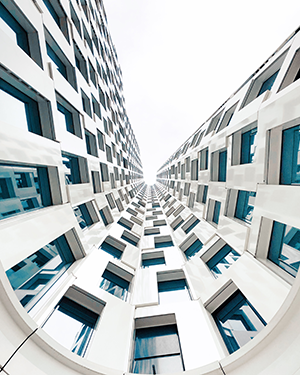
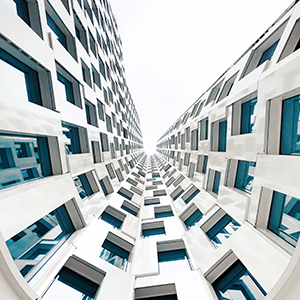
resize image files and add imgs to html

diff --git a/index.html b/index.html
@@ -1,25 +1,32 @@
-<!DOCTYPE html>
+<!doctype html>
 <html lang="en">
+  <head>
+    <!-- Required meta tags -->
+    <meta charset="utf-8">
+    <meta name="viewport" content="width=device-width, initial-scale=1, shrink-to-fit=no">
 
-	<head>
+    <!-- Bootstrap CSS -->
+    <link rel="stylesheet" href="https://stackpath.bootstrapcdn.com/bootstrap/4.4.1/css/bootstrap.min.css" integrity="sha384-Vkoo8x4CGsO3+Hhxv8T/Q5PaXtkKtu6ug5TOeNV6gBiFeWPGFN9MuhOf23Q9Ifjh" crossorigin="anonymous">
 
-		<meta charset="utf-8">
+    <title>Travel Memories</title>
+  </head>
+  <body>
+    <h1>Travel Memories '19</h1>
 
-		<title></title>
+    <img src="hw2-image1.png" alt="image of building from ground looking up">
+    <img src="hw2-image2.png" alt="image of 6 cupcakes with sprinkles">
+    <img src="hw2-image3.png" alt="street art of blue figure">
+    <img src="hw2-image4.png" alt="aerial shot of beach shoreline">
+    <img src="hw2-image5.png" alt="image of building from ground looking up">
+    <img src="hw2-image6.png" alt="image of headphones">
+    <img src="hw2-image7.png" alt="aerial shot of beach shoreline with abondoned boat">
+    <img src="hw2-image8.png" alt="portrait of girl">
+    <img src="hw2-image9.png" alt="aerial shot of a rocky beach shoreline">
 
-		<link type="text/css" rel="stylesheet" href="styles.css" />
-
-		<meta name="viewport" content="width=device-width, initial-scale=1">
-
-		<!--[if lt IE 9]>
-			<script src="js/html5shiv-printshiv.min.js"></script>
-		<![endif]-->
-
-	</head>
-
-	<body>
-
-
-	</body>
-
+    <!-- Optional JavaScript -->
+    <!-- jQuery first, then Popper.js, then Bootstrap JS -->
+    <script src="https://code.jquery.com/jquery-3.4.1.slim.min.js" integrity="sha384-J6qa4849blE2+poT4WnyKhv5vZF5SrPo0iEjwBvKU7imGFAV0wwj1yYfoRSJoZ+n" crossorigin="anonymous"></script>
+    <script src="https://cdn.jsdelivr.net/npm/popper.js@1.16.0/dist/umd/popper.min.js" integrity="sha384-Q6E9RHvbIyZFJoft+2mJbHaEWldlvI9IOYy5n3zV9zzTtmI3UksdQRVvoxMfooAo" crossorigin="anonymous"></script>
+    <script src="https://stackpath.bootstrapcdn.com/bootstrap/4.4.1/js/bootstrap.min.js" integrity="sha384-wfSDF2E50Y2D1uUdj0O3uMBJnjuUD4Ih7YwaYd1iqfktj0Uod8GCExl3Og8ifwB6" crossorigin="anonymous"></script>
+  </body>
 </html>
